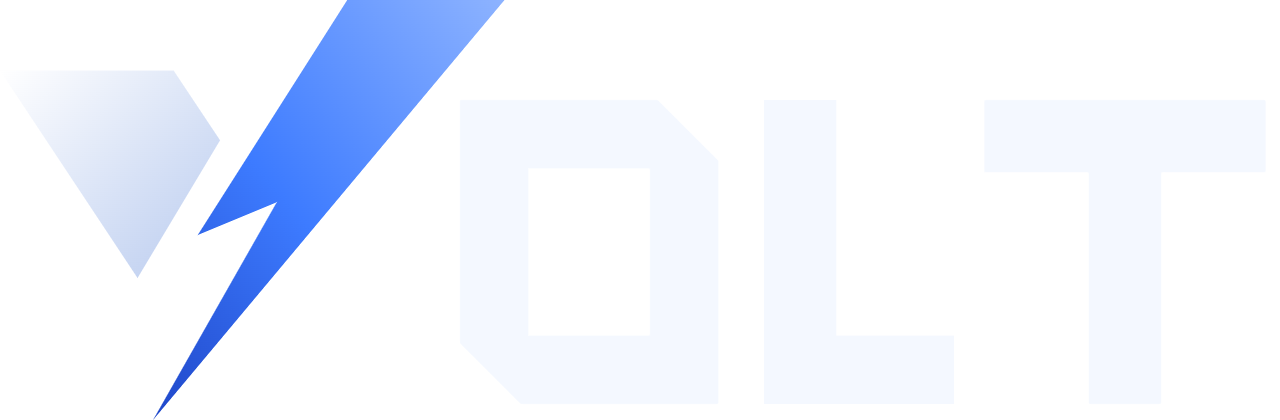
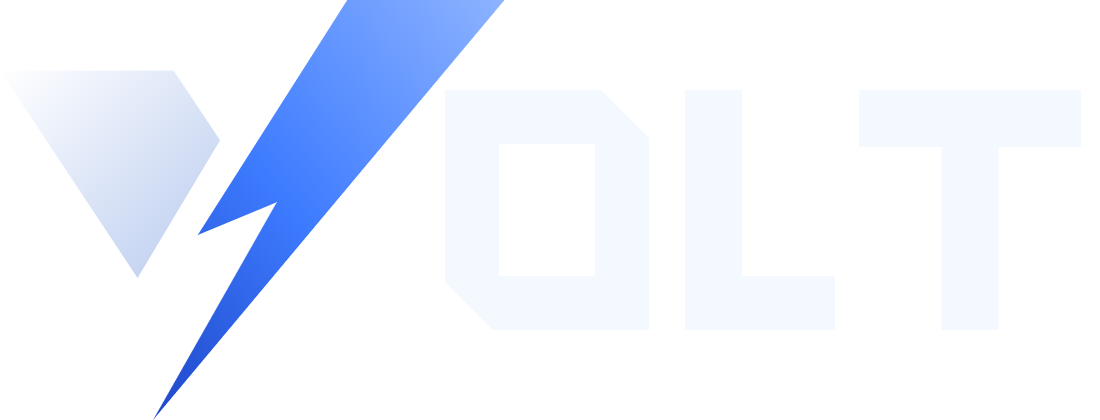
Brand: smaller OLT letters in the wordmark
The letters were three quarters of the mark's height and crowded it;
now they sit alongside the V at about 57%. Same proportion in the reel
end card, public/brand/volt-wordmark*, and the app's VoltWordmark.

Changed region(s): [[0.0618, 0.0, 0.4636, 0.9905], [0.0309, 0.3714, 0.0618, 0.4333]]

diff --git a/reels/videos/volt-bidding-war/index.html b/reels/videos/volt-bidding-war/index.html
@@ -157,7 +157,7 @@ html, body { width: 1080px; height: 1920px; overflow: hidden; background: #0a0d1
 /* captured app clips */
 .vid { right: auto; bottom: auto; object-fit: cover; -webkit-mask-image: linear-gradient(90deg, transparent 0, #000 9%, #000 91%, transparent 100%), linear-gradient(180deg, transparent 0, #000 5%, #000 93%, transparent 100%); -webkit-mask-composite: source-in; mask-image: linear-gradient(90deg, transparent 0, #000 9%, #000 91%, transparent 100%), linear-gradient(180deg, transparent 0, #000 5%, #000 93%, transparent 100%); mask-composite: intersect; }
 /* the logo sting */
-.logo-wrap { position: relative; width: 760px; height: 249px; }
+.logo-wrap { position: relative; width: 653px; height: 249px; }
 .cta-logo { position: relative; display: block; overflow: visible; }
 .logo-glow { position: absolute; left: -60px; top: -80px; width: 480px; height: 420px; background: radial-gradient(ellipse at 45% 55%, rgba(61,123,255,0.55), rgba(61,123,255,0) 65%); opacity: 0; }
 .logo-ring { position: absolute; left: 70px; top: -30px; width: 300px; height: 300px; border: 2px solid rgba(125,166,255,0.7); border-radius: 50%; opacity: 0; }
@@ -191,11 +191,11 @@ html, body { width: 1080px; height: 1920px; overflow: hidden; background: #0a0d1
 <div id="sw4" class="clip sweep-c" data-start="16.3" data-duration="0.8" data-track-index="9"><div class="sweep" id="sw4-b"></div></div>
 <div id="s4" class="clip scene" data-start="19.56" data-duration="4.65" data-track-index="1"><div class="sc-in" id="s4-in"><div class="sc-out" id="s4-out"><div class="stat-wrap"><div class="lab" id="s4-lab"><span>// ONE DRAFT NIGHT</span><i id="s4-labr"></i></div><div class="stat-row"><div class="stat-c" id="s4-c0"><div class="stat-v" id="s4-v0" style="color:#ecf3ff">0</div><div class="stat-l">Players</div></div><div class="stat-c" id="s4-c1"><div class="stat-v" id="s4-v1" style="color:#7da6ff">0</div><div class="stat-l">Captains</div></div><div class="stat-c" id="s4-c2"><div class="stat-v" id="s4-v2" style="color:#3ddc84">0</div><div class="stat-l">Draft night</div></div></div></div></div></div></div>
 <div id="sw5" class="clip sweep-c" data-start="19.46" data-duration="0.8" data-track-index="9"><div class="sweep" id="sw5-b"></div></div>
-<div id="s5" class="clip scene" data-start="24.01" data-duration="4.29" data-track-index="1"><div class="sc-in" id="s5-in"><div class="sc-out" id="s5-out"><div class="cta"><div class="logo-wrap"><div class="logo-glow" id="s5-glow"></div><div class="logo-ring" id="s5-ring"></div><svg class="cta-logo" viewBox="0 0 1280 420" width="760" height="249"><defs>
+<div id="s5" class="clip scene" data-start="24.01" data-duration="4.29" data-track-index="1"><div class="sc-in" id="s5-in"><div class="sc-out" id="s5-out"><div class="cta"><div class="logo-wrap"><div class="logo-glow" id="s5-glow"></div><div class="logo-ring" id="s5-ring"></div><svg class="cta-logo" viewBox="0 0 1100 420" width="653" height="249"><defs>
       <linearGradient id="s5-gb" x1="1" y1="0" x2="0" y2="1"><stop offset="0" stop-color="#8db3ff"/><stop offset="0.55" stop-color="#3d7bff"/><stop offset="1" stop-color="#1f47c9"/></linearGradient>
       <linearGradient id="s5-ga" x1="0" y1="0" x2="1" y2="1"><stop offset="0" stop-color="#ffffff"/><stop offset="1" stop-color="#b9cbef"/></linearGradient></defs>
       <g transform="scale(0.5036)"><path id="s5-arm" d="M344.811 140.139H0L273.118 552.012L436.988 278.57L344.811 140.139Z" fill="url(#s5-ga)"/><path id="s5-bolt" d="M392.606 466.561L689.622 0H1002L303.843 834L549.649 401.619L392.606 466.561Z" fill="url(#s5-gb)"/></g>
-      <g transform="translate(156 100) scale(7.6)" fill="#f4f8ff"><path id="s5-o" fill-rule="evenodd" d="M40 0H66L74 8V40H48L40 32ZM49 9V31H65V9Z"/><path id="s5-l" d="M80 0H89.5V31H105V40H80Z"/><path id="s5-t" d="M109 0H146V9.5H132.25V40H122.75V9.5H109Z"/></g></svg></div><div class="cta-tag" id="s5-tag">// LEAGUE PLATFORM</div><div class="cta-lines"><div class="ln " style="font-size:118px"><span id="s5-l0" class="ln-i">BUILD YOUR</span></div><div class="ln " style="font-size:118px"><span id="s5-l1" class="ln-i"><span class="c-hot">DREAM TEAM.</span></span></div></div><div class="cta-feat" id="s5-feat">Solo sign-ups · Live auction · Brackets · Stats</div><div class="btn" id="s5-btn"><span>JOIN THE DRAFT</span><i class="btn-sh" id="s5-btnsh"></i></div></div></div></div></div>
+      <g transform="translate(205 90) scale(6)" fill="#f4f8ff"><path id="s5-o" fill-rule="evenodd" d="M40 0H66L74 8V40H48L40 32ZM49 9V31H65V9Z"/><path id="s5-l" d="M80 0H89.5V31H105V40H80Z"/><path id="s5-t" d="M109 0H146V9.5H132.25V40H122.75V9.5H109Z"/></g></svg></div><div class="cta-tag" id="s5-tag">// LEAGUE PLATFORM</div><div class="cta-lines"><div class="ln " style="font-size:118px"><span id="s5-l0" class="ln-i">BUILD YOUR</span></div><div class="ln " style="font-size:118px"><span id="s5-l1" class="ln-i"><span class="c-hot">DREAM TEAM.</span></span></div></div><div class="cta-feat" id="s5-feat">Solo sign-ups · Live auction · Brackets · Stats</div><div class="btn" id="s5-btn"><span>JOIN THE DRAFT</span><i class="btn-sh" id="s5-btnsh"></i></div></div></div></div></div>
 <div id="sw6" class="clip sweep-c" data-start="23.91" data-duration="0.8" data-track-index="9"><div class="sweep" id="sw6-b"></div></div>
 <div id="fadein-c" class="clip" data-start="0" data-duration="0.5" data-track-index="10"><div id="fadein"></div></div>
 </div>

diff --git a/reels/lib/reel.css b/reels/lib/reel.css
@@ -148,7 +148,7 @@ html, body { width: 1080px; height: 1920px; overflow: hidden; background: #0a0d1
 /* captured app clips */
 .vid { right: auto; bottom: auto; object-fit: cover; -webkit-mask-image: linear-gradient(90deg, transparent 0, #000 9%, #000 91%, transparent 100%), linear-gradient(180deg, transparent 0, #000 5%, #000 93%, transparent 100%); -webkit-mask-composite: source-in; mask-image: linear-gradient(90deg, transparent 0, #000 9%, #000 91%, transparent 100%), linear-gradient(180deg, transparent 0, #000 5%, #000 93%, transparent 100%); mask-composite: intersect; }
 /* the logo sting */
-.logo-wrap { position: relative; width: 760px; height: 249px; }
+.logo-wrap { position: relative; width: 653px; height: 249px; }
 .cta-logo { position: relative; display: block; overflow: visible; }
 .logo-glow { position: absolute; left: -60px; top: -80px; width: 480px; height: 420px; background: radial-gradient(ellipse at 45% 55%, rgba(61,123,255,0.55), rgba(61,123,255,0) 65%); opacity: 0; }
 .logo-ring { position: absolute; left: 70px; top: -30px; width: 300px; height: 300px; border: 2px solid rgba(125,166,255,0.7); border-radius: 50%; opacity: 0; }

diff --git a/src/App.jsx b/src/App.jsx
@@ -254,11 +254,11 @@ function VoltMark({ size = 24, glow = false, style }) {
 function VoltWordmark({ height = 40, style }) {
   const id = "vw" + useId().replace(/[^a-zA-Z0-9]/g, "");
   return (
-    <svg viewBox="0 0 1280 420" height={height} width={Math.round((height * 1280) / 420)} role="img" aria-label="VOLT"
+    <svg viewBox="0 0 1100 420" height={height} width={Math.round((height * 1100) / 420)} role="img" aria-label="VOLT"
       style={{ display: "block", filter: "drop-shadow(0 0 14px rgba(61,123,255,0.35))", ...style }}>
       <VoltGrads id={id} />
       <g transform="scale(0.5036)"><path d={VOLT_ARM} fill={`url(#${id}a)`} /><path d={VOLT_BOLT} fill={`url(#${id}b)`} /></g>
-      <g transform="translate(156 100) scale(7.6)" fill="#f4f8ff">
+      <g transform="translate(205 90) scale(6)" fill="#f4f8ff">
         <path fillRule="evenodd" d="M40 0H66L74 8V40H48L40 32ZM49 9V31H65V9Z" />
         <path d="M80 0H89.5V31H105V40H80Z" />
         <path d="M109 0H146V9.5H132.25V40H122.75V9.5H109Z" />
